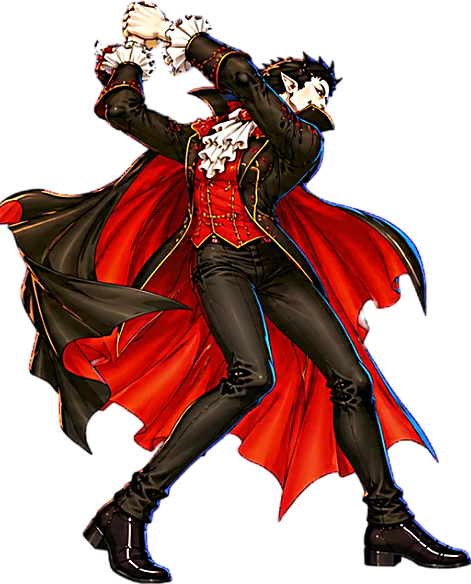
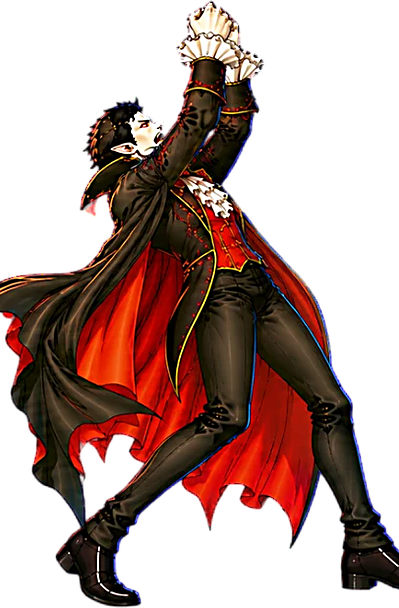
3.16.5: Дракула — новые бросок вперёд, удары ногой стоя и шаг вперёд от стойки; покадровое выравнивание шага
Claude-Session: https://claude.ai/code/session_01XXCj5USGvqBwGBQWYjNQyR

diff --git a/bitva-legend/tools/process_fighter_art.py b/bitva-legend/tools/process_fighter_art.py
@@ -29,6 +29,7 @@
   frame_scale: {"<кадр с 1>": множитель} — поправка масштаба отдельных кадров (нейросеть рисует лежащего
            мельче стоящего: сравнивайте размер головы со стойкой).
   align_top: доля высоты фигуры сверху, по которой совмещать (0.55 — голова и корпус, для ударов ногой).
+  align_each: true — совместить с образцом каждый кадр по отдельности (по горизонтали; шаг: корпус на месте).
   align_frame: какой кадр листа (с 1) совмещать с образцом — по умолчанию первый (у вставания — последний,
            он совпадает со стойкой).
 """
@@ -304,6 +305,11 @@ def main() -> int:
             for d in done:
                 d[1] += shift[0]
                 d[2] += shift[1]
+            if opt.get("align_each"):
+                # Каждый кадр отдельно: корпус стоит на месте, движутся только ноги (шаг — игра двигает бойца сама).
+                for d in done[:k] + done[k + 1:]:
+                    ex, _ = align_shift(d[0], f, float(opt.get("align_top", 1.0)))
+                    d[1] = px + shift[0] - ex
             if name == "idle":
                 # Стойку выровняли по старому образцу — остальные листы считаем в той же системе.
                 ref["center_offset"] += shift[0]
